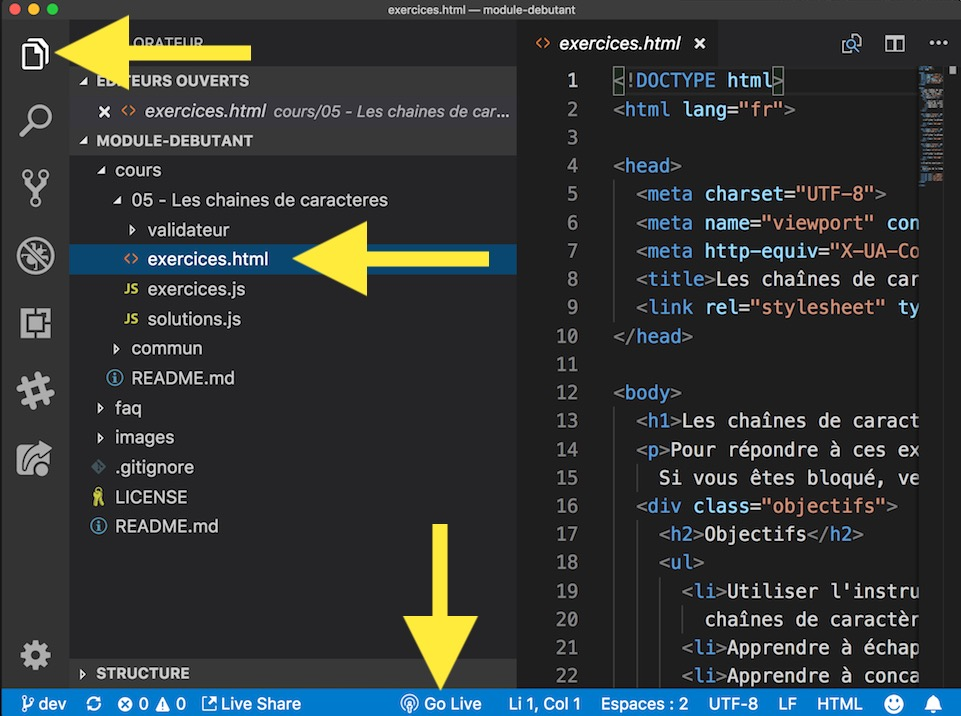
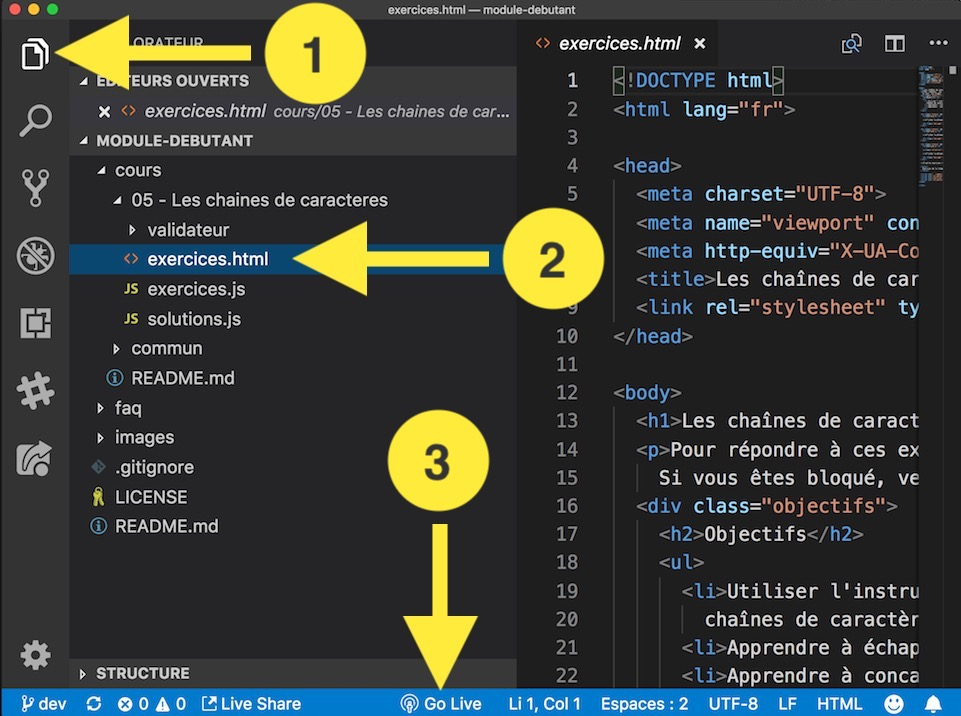
Ajout de documentation pour la mise à jour

Changed region(s): [[0.4995, 0.2765, 0.6556, 0.4302], [0.4058, 0.5531, 0.5307, 0.7374], [0.2497, 0.0, 0.4058, 0.1536]]

diff --git a/cours/README.md b/cours/README.md
@@ -180,7 +180,27 @@ Voici les instructions à suivre pour faire les exercices depuis Visual Studio C
 10. Dernière étape ouvrez le fichier **exercices.js** (ou le fichier se terminant par **.js**) pour commencer à coder vos réponses !
     ![capture d'écran ouvrir le cours](../images/exercices-js.jpg)
 11. Dès que vous enregistrez vos modifications dans le fichier **exercices.js** le navigateur se mettra à jour et vous dira si vous avez réussi ou pas les exercices. Bon courage !
-12. Pour toute question, merci de me contacter via [Slack](https://javascriptdezero.slack.com).
+12. Pour faire les exercices d'un autre cours, il suffit de recommencer à l'étape 6 en sélectionnant le cours de votre choix.
+13. Comme je mets à jour régulièrement les exercices, pensez à lire la section [mettre à jour le dépôt Git de la formation](#Mettre-à-jour-le-dépôt-Git-de-la-formation).
+14. Pour toute question, merci de me contacter via [Slack](https://javascriptdezero.slack.com).
+
+### Mettre à jour le dépôt Git de la formation
+
+Je mets à jour le dépôt Git de la formation régulièrement en ajoutant de nouveaux exercices et du contenu. Pour en profiter, pensez à mettre à jour votre dépôt de temps en temps en suivant les instructions suivantes.
+
+> Vous devez être connecté à Internet pour que la mise à jour puisse s'effectuer.
+
+Voici les étapes à suivre en image (plus d'informations après l'image) :
+
+<p align="center"><img src="../images/mise-a-jour.jpg"></p>
+
+1. Ouvrez Visual Studio Code.
+2. Ouvrez le dépôt Git de la formation : allez dans le menu **Fichier > Ouvrir** et sélectionnez le répertoire que vous avez utilisé pour stocker le dépôt de la formation sur votre ordinateur.
+3. Depuis ce projet, sélectionnez sur le panneau latéral gauche l'icône **debug** (étape 1 de l'image).
+4. Sélectionnez dans le menu déroulant en haut "Mettre à jour le dépôt" (étape 2 de l'image).
+5. Ouvrez la console de déboguage pour voir la mise à jour s'effectuer et vérifier que tout va bien. Cliquez sur l'icône terminal à droite du menu déroulant (étape 3 de l'image).
+6. Lancez la mise à jour en cliquant sur le bouton **Lecture** à gauche du menu déroulant (étape 4 de l'image).
+7. Vérifiez que tout se passe bien dans la console de déboguage.
 
 ### Installer Git
 
